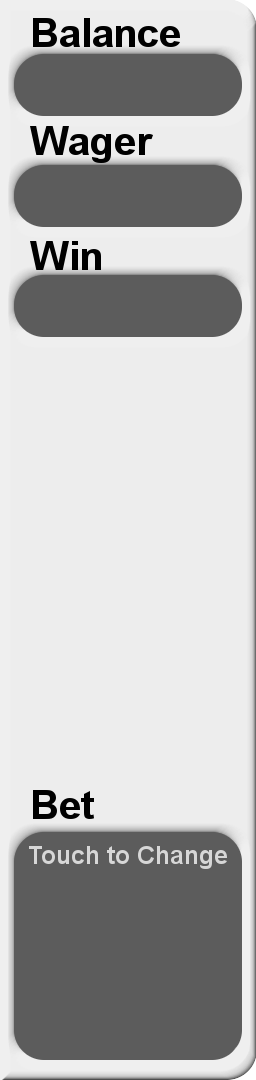
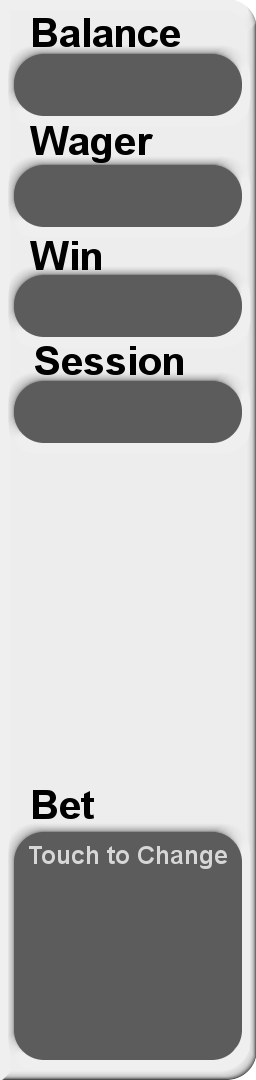
Added a session balance to the left side so you can keep track of how an individual game session is going

Changed region(s): [[0.0312, 0.3056, 0.9688, 0.4278]]

diff --git a/CasinoPractice/core/src/com/thirteensecondstoburn/CasinoPractice/Actors/LeftSide.java b/CasinoPractice/core/src/com/thirteensecondstoburn/CasinoPractice/Actors/LeftSide.java
@@ -23,6 +23,7 @@ public class LeftSide extends Group {
     Text wager;
     Text balance;
     Text won;
+    Text sessionBalance;
     BetButton betButton;
     MenuButton menuButton;
     HelpButton helpButton;
@@ -34,7 +35,7 @@ public class LeftSide extends Group {
         backgroundImage = new Image(assets.getTexture(Assets.TEX_NAME.LEFT_SIDE));
 
         betButton = new BetButton(assets);
-        betButton.setPosition(0,0);
+        betButton.setPosition(0, 0);
         betButton.addListener(new ActorGestureListener() {
             @Override
             public void touchUp(InputEvent event, float x, float y, int pointer, int button) {
@@ -69,16 +70,18 @@ public class LeftSide extends Group {
 
 
         balance = new Text(assets, "", 1.0f);
-        updateBalance();
-
         wager = new Text(assets, "0", 1.5f);
         won = new Text(assets, "0", 1.5f);
+        sessionBalance = new Text(assets, "0", 1.0f);
+
+        updateBalance();
 
         addActor(backgroundImage);
         addActor(betButton);
         addActor(balance);
         addActor(wager);
         addActor(won);
+        addActor(sessionBalance);
         addActor(menuButton);
         addActor(helpButton);
 
@@ -91,10 +94,11 @@ public class LeftSide extends Group {
             balance.setPosition(30, stage.getHeight() - 100);
             wager.setPosition(30, stage.getHeight() - 215);
             won.setPosition(30, stage.getHeight() - 325);
+            sessionBalance.setPosition(30, stage.getHeight() - 430);
             backgroundImage.setColor(this.getColor());
-            menuButton.setPosition(30, stage.getHeight() - 500);
+            menuButton.setPosition(30, stage.getHeight() - 600);
             menuButton.setColor(this.getColor());
-            helpButton.setPosition(68, stage.getHeight() - 650);
+            helpButton.setPosition(68, stage.getHeight() - 750);
             helpButton.setColor(this.getColor());
         }
     }
@@ -118,6 +122,27 @@ public class LeftSide extends Group {
         } else {
             balance.setScale(.75f);
         }
+        
+        // update the session winning as well
+        if(game.getSessionBalance() > 0) {
+            sessionBalance.setColor(Color.GREEN);
+        } else if (game.getSessionBalance() == 0) {
+            sessionBalance.setColor(Color.WHITE);
+        } else {
+            sessionBalance.setColor(Color.RED);
+        }
+
+        if(game.getSessionBalance() == (int)game.getSessionBalance()) {
+            sessionBalance.setText(String.format("%.0f", game.getSessionBalance()));
+        } else {
+            sessionBalance.setText(String.format("%.2f", game.getSessionBalance()));
+        }
+        if(game.getSessionBalance() < 500000000) {
+            sessionBalance.setScale(1.0f);
+        } else {
+            sessionBalance.setScale(.75f);
+        }
+        
     }
 
     public void setWonText(String text) {

diff --git a/CasinoPractice/core/src/com/thirteensecondstoburn/CasinoPractice/Screens/LetItRideScreen.java b/CasinoPractice/core/src/com/thirteensecondstoburn/CasinoPractice/Screens/LetItRideScreen.java
@@ -340,7 +340,8 @@ public class LetItRideScreen extends TableScreen implements ActionCompletedListe
                 }
 
                 // any 3 to a straight spread 5 with the at least 2 >= 10
-                if(card0 - card2 == 4 && card0 >= 10 && card2 >= 10) {
+                if(card0 - card2 == 4 && card0 >= 10 && card2 >= 10
+                        && card0 != card1 && card1 != card2) {
                     letItRideReason = "Let it Ride: Any 3 cards to a straight flush with a spread of 5 and 2 cards 10 or greater";
                     return letItRideButton;
                 }
@@ -371,13 +372,15 @@ public class LetItRideScreen extends TableScreen implements ActionCompletedListe
             }
 
             // any 4 to an outside straight
-            if(card0 - card3 == 3) {
+            if(card0 - card3 == 3
+                    && card0 != card1 && card1 != card2 && card2 != card3) {
                 letItRideReason = "Let it Ride: Outside straight draw";
                 return letItRideButton;
             }
 
             // any 4 to an inside straight where the bottom is 10
-            if(card0 - card3 == 4 && card3 >= 10) {
+            if(card0 - card3 == 4 && card3 >= 10
+                    && card0 != card1 && card1 != card2 && card2 != card3) {
                 letItRideReason = "Let it Ride: Inside straight draw w/ a 10 or higher as the low card";
                 return letItRideButton;
             }

diff --git a/CasinoPractice/core/src/com/thirteensecondstoburn/CasinoPractice/CasinoPracticeGame.java b/CasinoPractice/core/src/com/thirteensecondstoburn/CasinoPractice/CasinoPracticeGame.java
@@ -42,6 +42,7 @@ public class CasinoPracticeGame extends Game {
     private RouletteScreen rouletteScreen;
     private LetItRideScreen letItRideScreen;
     private double balance;
+    private double sessionBalance;
 
     private Calendar lastDailyChips = null;
     private Preferences saveData;
@@ -221,6 +222,10 @@ public class CasinoPracticeGame extends Game {
         billing.dispose();
     }
 
+    public void resetSessionBalance() {
+        sessionBalance = 0;
+    }
+
     public Assets getAssets() {
         if(assets == null) assets = new Assets();
         return assets;
@@ -228,15 +233,19 @@ public class CasinoPracticeGame extends Game {
 
     public void addToBalance(float amount) {
         balance += amount;
+        sessionBalance += amount;
     }
 
     public void subtractFromBalance(long amount) {
         balance -= amount;
+        sessionBalance -= amount;
     }
 
     public double getBalance() {
         return balance;
     }
+
+    public double getSessionBalance() { return sessionBalance; }
 
     public boolean usePreActionHints() {
         return ALLOW_HINTS && actionHints;

diff --git a/CasinoPractice/core/src/com/thirteensecondstoburn/CasinoPractice/Screens/TableScreen.java b/CasinoPractice/core/src/com/thirteensecondstoburn/CasinoPractice/Screens/TableScreen.java
@@ -45,6 +45,9 @@ abstract public class TableScreen implements Screen {
 
     @Override
     public void show() {
+        // showing a new screen, reset the session balance
+        game.resetSessionBalance();
+
         Gdx.input.setInputProcessor(stage);
         stage.addAction(Actions.alpha(1));
 
